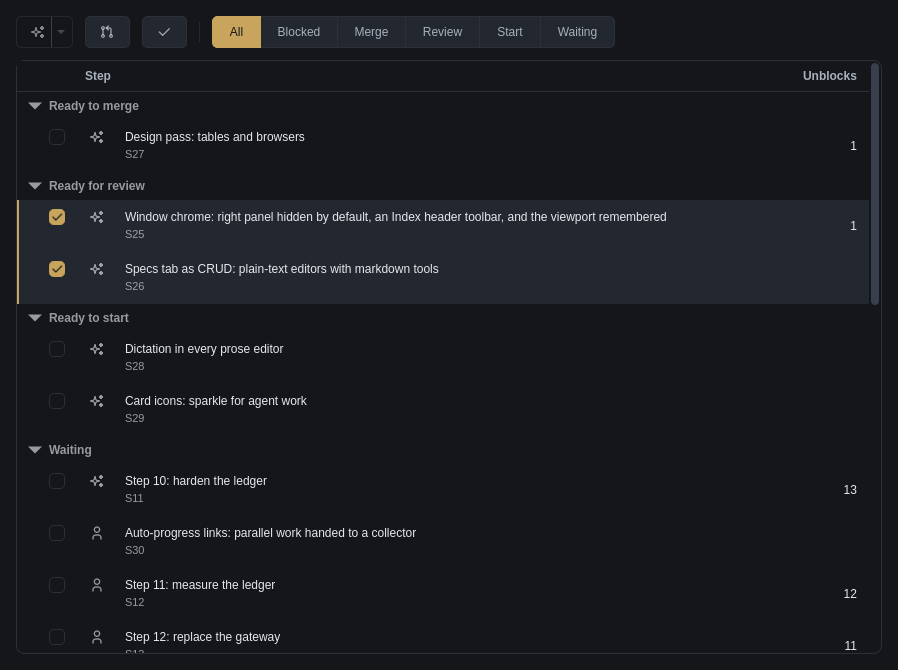
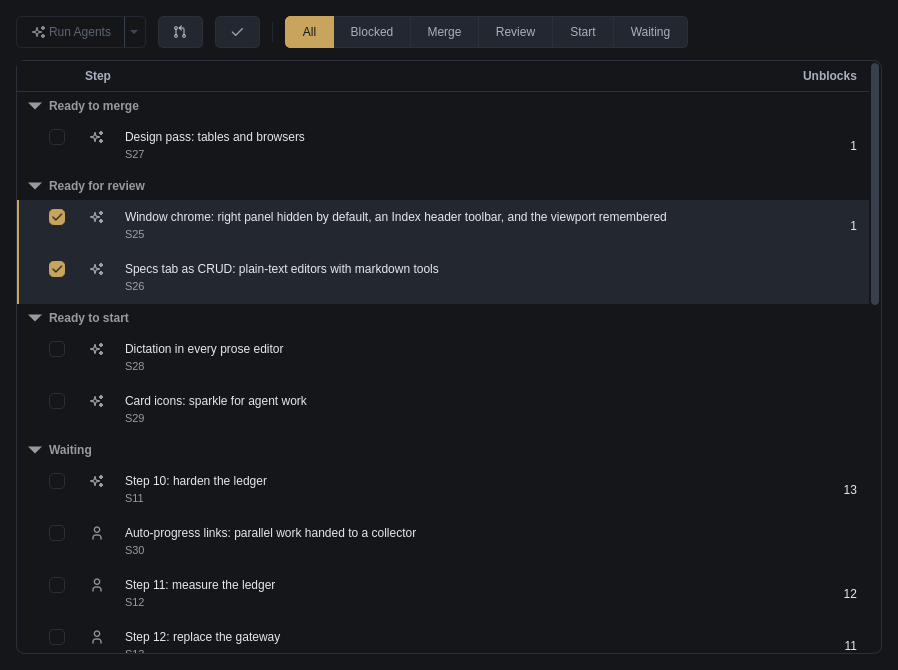
Run Agents wears its words again on the Step statuses strip
Moving the tab onto the glyph strip left its lead verb a bare sparkle.
Toolbar.add_action takes a face: fixed words set as the action's iconText,
so the button reads "Run Agents" while the state's words (the count, a
refusal) still name it in the tooltip and the … menu. StripVerb carries the
face and the composition root names it for agent.run. DESIGN.md's Toolbars
rule and NOTES-FOR-APPFRAME.md §59 record it; the f6 renders are refreshed.

diff --git a/tests/framework/test_toolbar.py b/tests/framework/test_toolbar.py
@@ -5,10 +5,16 @@ and, for a strip that is a tool palette, named bands that fold whole."""
 from itertools import pairwise
 
 import pytest
+from PySide6.QtCore import Qt
 from PySide6.QtGui import QPalette
 from PySide6.QtWidgets import QComboBox, QWidget
 
-from dplanner.framework.action_registry import ActionRegistry, ActionSpec, MenuStructure
+from dplanner.framework.action_registry import (
+    ActionRegistry,
+    ActionSpec,
+    ActionState,
+    MenuStructure,
+)
 from dplanner.framework.context import ContextService
 from dplanner.framework.toolbar import MORE, Toolbar, _Group
 from dplanner.theme import apply_theme
@@ -248,6 +254,27 @@ def test_a_registry_fed_verb_wears_the_specs_glyph_and_follows_its_state(host, a
     assert len(context.changed._slots) < before
 
 
+def test_a_registry_fed_verb_with_a_face_keeps_its_words_while_its_state_rewords_it(host, app):
+    registry = registry_with(
+        ActionSpec(
+            id="steps.new",
+            label="&New Step",
+            menu="Step",
+            group="edit",
+            icon=plus_icon,
+            state=lambda _context: ActionState(enabled=False, label="New Step — pick a project"),
+            run=lambda _context: None,
+        )
+    )
+    bar = Toolbar(host)
+    bar.add_action(registry, ContextService(), "steps.new", face="New")
+    button = bar.button_for("steps.new")
+    assert button is not None and button.text() == "New"
+    assert button.toolButtonStyle() == Qt.ToolButtonStyle.ToolButtonTextBesideIcon
+    assert button.toolTip().startswith("New Step — pick a project")
+    bar.dispose()
+
+
 def test_a_checked_verbs_glyph_changes_ink_with_its_fill(host, app):
     """A checked button is filled with the accent; a glyph left in the quiet tone
     disappears into it, which is why the switches used to be words."""
@@ -307,8 +334,6 @@ def test_a_widget_the_host_takes_off_stays_off_through_every_reflow(host, app):
 
 
 def test_a_verb_a_state_hides_stays_hidden_through_a_reflow(host, app):
-    from dplanner.framework.action_registry import ActionState
-
     registry = registry_with(
         ActionSpec(
             id="steps.new",

diff --git a/src/dplanner/modules/__init__.py b/src/dplanner/modules/__init__.py
@@ -1006,9 +1006,10 @@ def default_modules(services: "AppServices", board: "AtWorkBoard | None" = None)
         )
     )
     # Constructed before the list because the projects index opens the tab through it.
-    # Its strip seats verbs other modules own, named here by id — Run Agent with the Step
-    # menu's own profiles under its arrow, then the status verbs a person moves finished
-    # work on with — so neither module knows the other's name.
+    # Its strip seats verbs other modules own, named here by id — Run Agent, worded as the
+    # verb the tab leads with, with the Step menu's own profiles under its arrow, then the
+    # status verbs a person moves finished work on with — so neither module knows the
+    # other's name.
     progression = ProgressionModule(
         ProgressionDeps(
             library=library,
@@ -1021,7 +1022,7 @@ def default_modules(services: "AppServices", board: "AtWorkBoard | None" = None)
             status_for=_wait_aware(library, services.clock.today),
             counts_as_work=_counts_as_work,
             verbs=(
-                StripVerb("agent.run", data_menu=RUN_MENU_ID),
+                StripVerb("agent.run", data_menu=RUN_MENU_ID, face="Run Agents"),
                 StripVerb("status.ready-to-merge"),
                 StripVerb("status.done"),
             ),

diff --git a/src/dplanner/framework/toolbar.py b/src/dplanner/framework/toolbar.py
@@ -415,6 +415,7 @@ class Toolbar(QWidget):
         *,
         menu: tuple[str, str] | None = None,
         data_menu: str | None = None,
+        face: str = "",
     ) -> QAction:
         """A verb the registry owns, restated on every context change.
 
@@ -427,6 +428,9 @@ class Toolbar(QWidget):
         the table: the launch profiles under *Compile with Agent*, which `fill_menu` leaves
         out of a named-submenu render precisely because a data child menu belongs to its
         menu rather than to one of its submenus.
+
+        ``face`` puts fixed words beside the glyph — the action's ``iconText``, so the
+        state's words (a count, a refusal) still name it in the tooltip and the … menu.
         """
         self._bind(registry, context)
         spec = registry.spec(action_id)
@@ -442,6 +446,9 @@ class Toolbar(QWidget):
             lambda _checked=False, a=action_id: registry.run(a, context.current())
         )
         button = self._glyph(action)
+        if face:
+            action.setIconText(face)
+            button.setToolButtonStyle(Qt.ToolButtonStyle.ToolButtonTextBesideIcon)
         if menu is not None:
             self._arrow(button, action, self._table_fill(menu[0], menu[1]))
         elif data_menu is not None:

diff --git a/src/dplanner/modules/progression/module.py b/src/dplanner/modules/progression/module.py
@@ -85,11 +85,13 @@ def _no_badge(_step_id: StepId) -> QIcon | None:
 
 @dataclass(frozen=True)
 class StripVerb:
-    """A registry verb the strip seats over the ticked rows, and the data child menu its
-    arrow drops down, if it has one — Run Agent's profiles."""
+    """A registry verb the strip seats over the ticked rows, the data child menu its arrow
+    drops down, if it has one — Run Agent's profiles — and the words it wears beside its
+    glyph, if any."""
 
     action_id: str
     data_menu: str | None = None
+    face: str = ""
 
 
 @dataclass(frozen=True)
@@ -145,7 +147,11 @@ class ProgressionActivity(EntityActivity):
         self.controls = Toolbar(page)
         for verb in deps.verbs:
             self.controls.add_action(
-                deps.actions, deps.context, verb.action_id, data_menu=verb.data_menu
+                deps.actions,
+                deps.context,
+                verb.action_id,
+                data_menu=verb.data_menu,
+                face=verb.face,
             )
         if deps.verbs:
             self.controls.add_divider()

diff --git a/tests/modules/test_step_statuses_tab.py b/tests/modules/test_step_statuses_tab.py
@@ -260,6 +260,8 @@ def test_the_strip_seats_run_agent_and_the_status_verbs_greyed_until_a_row_is_ti
     for action_id in ("agent.run", "status.ready-to-merge", "status.done"):
         button = tab.controls.button_for(action_id)
         assert button is not None and not button.isEnabled(), action_id
+    # The verb the tab leads with wears its words; the status verbs are glyphs.
+    assert tab.controls.button_for("agent.run").text() == "Run Agents"
 
 
 def test_accepting_reviews_moves_them_to_merge_and_done_takes_them_away(services, project, tab):

diff --git a/NOTES-FOR-APPFRAME.md b/NOTES-FOR-APPFRAME.md
@@ -4436,3 +4436,21 @@ painted the way chips are, from the palette.
 roster shape the template's table cannot express today. It also amends one rule: *a picked
 row is one ground, and nothing else marks it*. The one exception is a check column, because
 its box is the selection's own target.
+
+## 59. From the Step statuses strip: a registry verb that wears its words
+
+### `framework/toolbar.py` — `Toolbar.add_action(..., face=...)`
+
+**What we changed.** A registry-fed verb may carry fixed words beside its glyph. They are
+set as the action's `iconText`, which is what a `QToolButton` shows, and the button is
+switched to text beside icon. The action's `text()` is still restated from its state on every
+context change, so the tooltip and the `…` menu keep the full words — a count, a refusal —
+while the face stays short and one width.
+
+**Why.** The Step statuses tab moved onto the glyph strip and its Run Agents button lost the
+words it had worn as a hand-built button, and the developer wanted them back. `iconText` is
+Qt's own seam for "the short words on a tool button", so no second label had to be kept in
+step with the state.
+
+**Upstream?** Yes, small and general: a strip whose lead verb should read without a hover
+has no other way to say so on the registry-fed path.

diff --git a/DESIGN.md b/DESIGN.md
@@ -584,7 +584,10 @@ Example Table wears one.
   `theme/glyphs/`'s vendored Tabler SVGs, inked in the secondary tone and re-inked on a
   theme change —
   and painted at the screen's device pixel ratio, because a 16-pixel pixmap shown at 16
-  points on a 2× display is upscaled, and every stroke in it goes soft.
+  points on a 2× display is upscaled, and every stroke in it goes soft. **The verb a
+  surface leads with may wear its words** beside the glyph (`add_action`'s `face`: *Run
+  Agents* on the Step statuses strip) — short and fixed, the state's words staying in the
+  tooltip.
 - **A control that drops a menu asks for its arrow's room** (`ARROW_ROOM` for a split
   button, `INDICATOR_ROOM` for a face). A styled subcontrol is outside Qt's size hint, so
   nothing widens the button by itself: without the padding the arrow is painted over the

diff --git a/docs/screenshots/f6-step-statuses/README.md b/docs/screenshots/f6-step-statuses/README.md
@@ -8,7 +8,7 @@ uv run python scripts/render_boards.py --out docs/screenshots/f6-step-statuses
 
 | Image | What it shows |
 |---|---|
-| `step-statuses-*` | the Step statuses tab: the strip (Run Agent with its profiles, Ready to Merge, Done), the group filter, the table grouped Ready to merge · Ready for review · Ready to start · Waiting, a box on every row |
+| `step-statuses-*` | the Step statuses tab: the strip (Run Agents, in words, with its profiles; Ready to Merge and Done as glyphs), the group filter, the table grouped Ready to merge · Ready for review · Ready to start · Waiting, a box on every row |
 | `step-statuses-ticked-*` | the two reviews ticked: the box is the selection, and the strip's verbs act on it |
 | `step-statuses-review-*` | the filter on one group: its heading stands down, because the lit segment says it |
 
